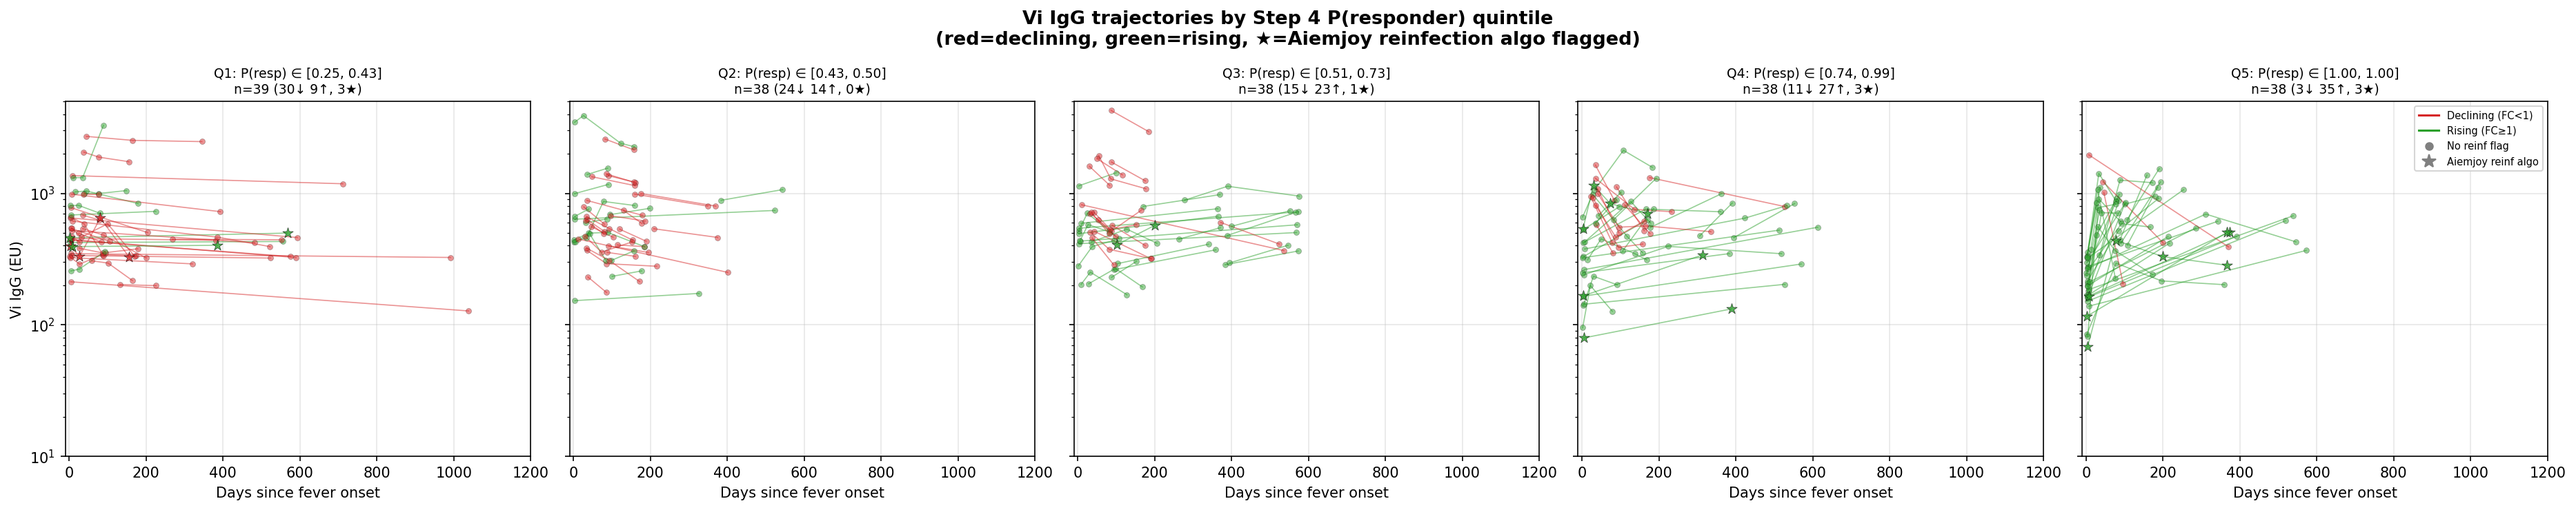
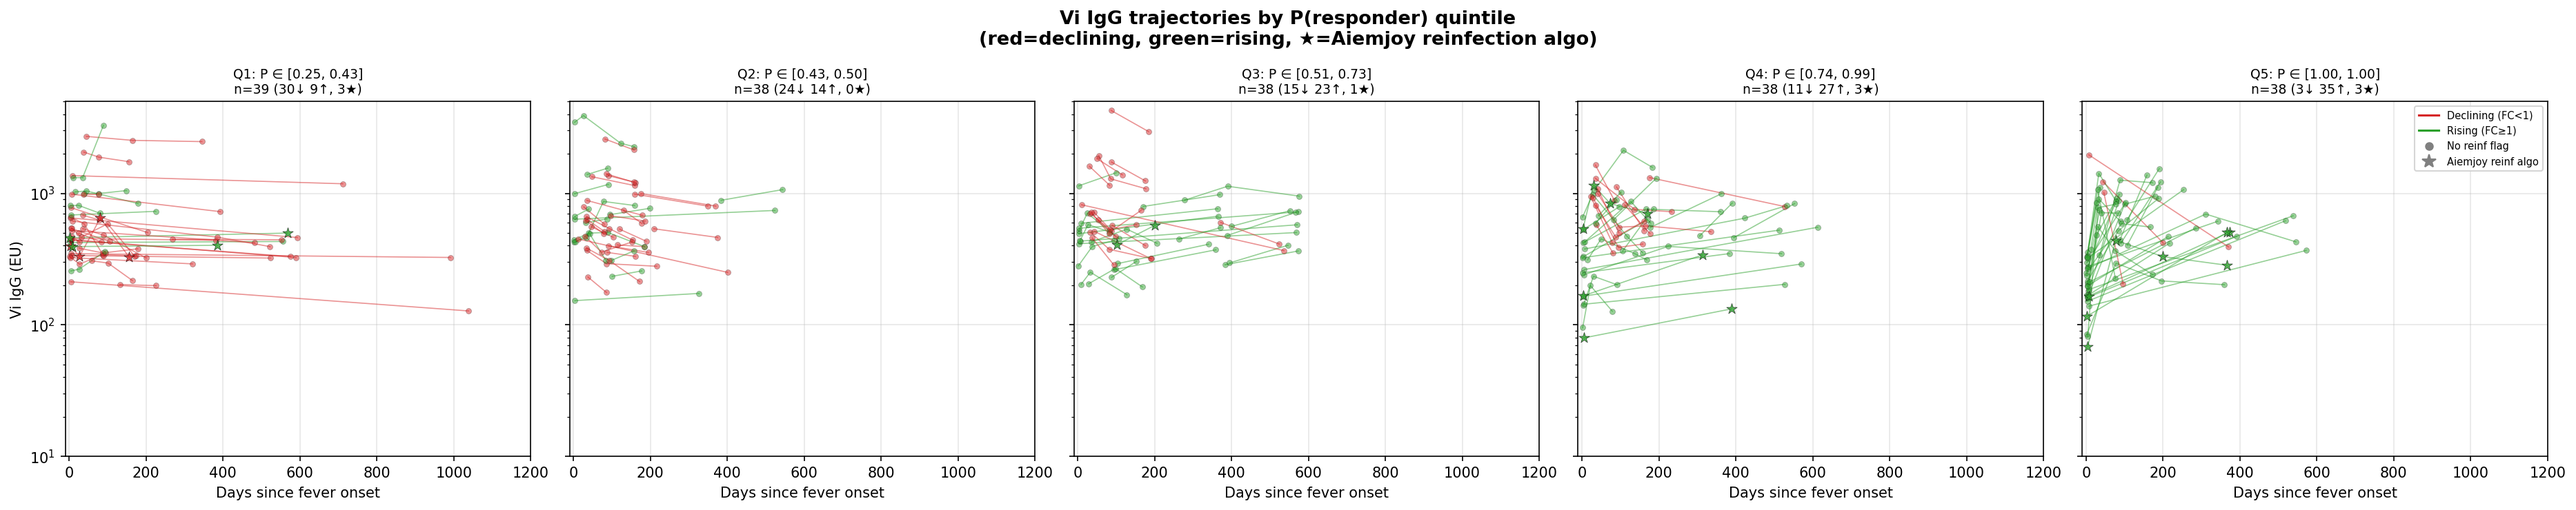
Add acute-vs-long follow-up × quintile trajectory facet plot
New 2×5 figure: rows = ≥2 samples within 200d vs long-gap only,
columns = P(responder) quintile. Long-gap subjects concentrate in
Q4-Q5 (high P(resp), mostly rising). Acute follow-up subjects
distribute more evenly across quintiles.

diff --git a/metastudies/waning_after_infection/Aiemjoy2022_reanalysis/reanalysis/mixture_eda/10_trajectories_by_presp.py b/metastudies/waning_after_infection/Aiemjoy2022_reanalysis/reanalysis/mixture_eda/10_trajectories_by_presp.py
@@ -50,16 +50,30 @@ def main():
     # Load long-format for trajectories
     long = pd.read_csv(DATA_DIR / "vi_igg_long.csv")
 
+    # Classify: ≥2 samples within 200 days of fever onset (acute follow-up)
+    acute_ids = set()
+    for sid, grp in long[long["has_longitudinal"]].groupby("index_id"):
+        n_within_200 = (grp["days_since_fever_onset"] <= 200).sum()
+        if n_within_200 >= 2:
+            acute_ids.add(sid)
+    df["acute_followup"] = df["index_id"].isin(acute_ids)
+
     print(f"Subjects: {len(df)}")
-    print(f"P(resp) quintile bounds:")
+    print(f"  ≥2 samples within 200d: {df['acute_followup'].sum()}")
+    print(f"  Only long-gap samples:  {(~df['acute_followup']).sum()}")
+    print(f"\nP(resp) quintile bounds:")
     for q, row in quintile_bounds.iterrows():
         n = (df["p_resp_quintile"] == q).sum()
         n_reinf = df[df["p_resp_quintile"] == q]["reinf_algo"].sum()
         print(f"  Q{q}: P ∈ [{row['min']:.3f}, {row['max']:.3f}], n={n}, reinf_algo={n_reinf}")
 
-    # Plot: 1 row × 5 columns (one per quintile)
-    fig, axes = plt.subplots(1, 5, figsize=(25, 5), sharey=True, sharex=True)
+    from matplotlib.lines import Line2D
     dir_colors = {"declining": "#d62728", "rising": "#2ca02c"}
+
+    # =====================================================================
+    # Figure 1: 1×5 quintile plot (original)
+    # =====================================================================
+    fig, axes = plt.subplots(1, 5, figsize=(25, 5), sharey=True, sharex=True)
 
     for qi, ax in enumerate(axes, 1):
         sub_ids = df[df["p_resp_quintile"] == qi]
@@ -73,34 +87,22 @@ def main():
             grp = long[long["index_id"] == sid].sort_values("days_since_fever_onset")
             color = dir_colors[row["direction"]]
             is_reinf = row["reinf_algo"]
-
-            # Line
             ax.plot(grp["days_since_fever_onset"], grp["vi_igg_eu"],
                     color=color, linewidth=0.8, alpha=0.5)
+            marker = "*" if is_reinf else "o"
+            size = 60 if is_reinf else 15
+            ax.scatter(grp["days_since_fever_onset"], grp["vi_igg_eu"],
+                       color=color, marker=marker, s=size, zorder=5 if is_reinf else 4,
+                       alpha=0.8 if is_reinf else 0.5,
+                       edgecolors="black", linewidths=0.3 if is_reinf else 0.2)
 
-            # Points: stars for reinf_algo, circles otherwise
-            if is_reinf:
-                ax.scatter(grp["days_since_fever_onset"], grp["vi_igg_eu"],
-                           color=color, marker="*", s=60, zorder=5, alpha=0.8,
-                           edgecolors="black", linewidths=0.3)
-            else:
-                ax.scatter(grp["days_since_fever_onset"], grp["vi_igg_eu"],
-                           color=color, marker="o", s=15, zorder=4, alpha=0.5,
-                           edgecolors="black", linewidths=0.2)
-
-        ax.set_yscale("log")
-        ax.set_ylim(10, 5000)
-        ax.set_xlim(-10, 1200)
-        ax.grid(True, alpha=0.3)
-        ax.set_xlabel("Days since fever onset")
-        ax.set_title(f"Q{qi}: P(resp) ∈ [{bounds['min']:.2f}, {bounds['max']:.2f}]\n"
-                     f"n={len(sub_ids)} ({n_dec}↓ {n_ris}↑, {n_reinf}★)",
-                     fontsize=9)
+        ax.set_yscale("log"); ax.set_ylim(10, 5000); ax.set_xlim(-10, 1200)
+        ax.grid(True, alpha=0.3); ax.set_xlabel("Days since fever onset")
+        ax.set_title(f"Q{qi}: P ∈ [{bounds['min']:.2f}, {bounds['max']:.2f}]\n"
+                     f"n={len(sub_ids)} ({n_dec}↓ {n_ris}↑, {n_reinf}★)", fontsize=9)
         if qi == 1:
             ax.set_ylabel("Vi IgG (EU)")
 
-    # Legend
-    from matplotlib.lines import Line2D
     legend_elements = [
         Line2D([0], [0], color="#d62728", lw=1.5, label="Declining (FC<1)"),
         Line2D([0], [0], color="#2ca02c", lw=1.5, label="Rising (FC≥1)"),
@@ -108,14 +110,67 @@ def main():
         Line2D([0], [0], marker="*", color="gray", lw=0, markersize=10, label="Aiemjoy reinf algo"),
     ]
     axes[-1].legend(handles=legend_elements, fontsize=7, loc="upper right")
-
-    fig.suptitle("Vi IgG trajectories by Step 4 P(responder) quintile\n"
-                 "(red=declining, green=rising, ★=Aiemjoy reinfection algo flagged)",
+    fig.suptitle("Vi IgG trajectories by P(responder) quintile\n"
+                 "(red=declining, green=rising, ★=Aiemjoy reinfection algo)",
                  fontsize=13, fontweight="bold")
     fig.tight_layout()
     fig.savefig(OUT_DIR / "10_trajectories_by_presp.png", dpi=150, bbox_inches="tight")
     plt.close()
     print("\nSaved 10_trajectories_by_presp.png")
+
+    # =====================================================================
+    # Figure 2: 2×5 — rows = acute follow-up vs not, columns = quintile
+    # =====================================================================
+    row_labels = [("≥2 samples ≤200d", True), ("Long-gap only", False)]
+    fig, axes = plt.subplots(2, 5, figsize=(25, 10), sharey=True, sharex=True)
+
+    for col, qi in enumerate(range(1, 6)):
+        bounds = quintile_bounds.loc[qi]
+        for row_idx, (row_label, is_acute) in enumerate(row_labels):
+            ax = axes[row_idx, col]
+            sub = df[(df["p_resp_quintile"] == qi) & (df["acute_followup"] == is_acute)]
+            n_dec = (sub["direction"] == "declining").sum()
+            n_ris = (sub["direction"] == "rising").sum()
+            n_reinf = sub["reinf_algo"].sum()
+
+            for _, r in sub.iterrows():
+                sid = r["index_id"]
+                grp = long[long["index_id"] == sid].sort_values("days_since_fever_onset")
+                color = dir_colors[r["direction"]]
+                is_reinf = r["reinf_algo"]
+                ax.plot(grp["days_since_fever_onset"], grp["vi_igg_eu"],
+                        color=color, linewidth=0.8, alpha=0.5)
+                marker = "*" if is_reinf else "o"
+                size = 60 if is_reinf else 15
+                ax.scatter(grp["days_since_fever_onset"], grp["vi_igg_eu"],
+                           color=color, marker=marker, s=size,
+                           zorder=5 if is_reinf else 4,
+                           alpha=0.8 if is_reinf else 0.5,
+                           edgecolors="black", linewidths=0.3 if is_reinf else 0.2)
+
+            ax.set_yscale("log"); ax.set_ylim(10, 5000); ax.set_xlim(-10, 1200)
+            ax.grid(True, alpha=0.3)
+
+            if row_idx == 0:
+                ax.set_title(f"Q{qi}: P ∈ [{bounds['min']:.2f}, {bounds['max']:.2f}]",
+                             fontsize=9)
+            if col == 0:
+                ax.set_ylabel(f"{row_label}\n(n={len(sub)})\nVi IgG (EU)")
+            else:
+                ax.text(0.02, 0.95, f"n={len(sub)}\n{n_dec}↓ {n_ris}↑ {n_reinf}★",
+                        transform=ax.transAxes, fontsize=8, va="top",
+                        bbox=dict(facecolor="white", alpha=0.7, edgecolor="none"))
+            if row_idx == 1:
+                ax.set_xlabel("Days since fever onset")
+
+    axes[-1, -1].legend(handles=legend_elements, fontsize=7, loc="upper right")
+    fig.suptitle("Vi IgG trajectories: acute follow-up × P(responder) quintile\n"
+                 "(top: ≥2 samples within 200d, bottom: long-gap only)",
+                 fontsize=13, fontweight="bold")
+    fig.tight_layout()
+    fig.savefig(OUT_DIR / "10_trajectories_acute_vs_long.png", dpi=150, bbox_inches="tight")
+    plt.close()
+    print("Saved 10_trajectories_acute_vs_long.png")
 
 
 if __name__ == "__main__":
